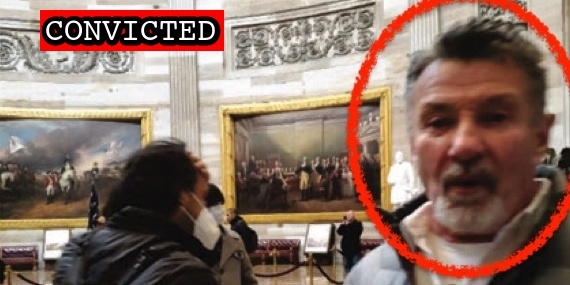
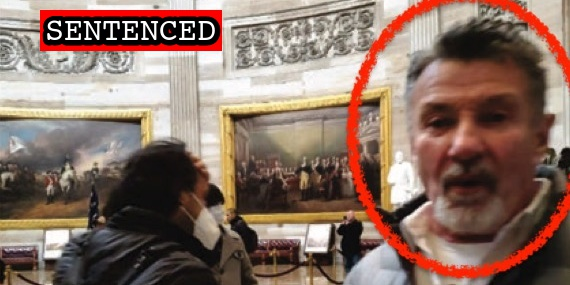
More sentencing

Changed region(s): [[0.1789, 0.0561, 0.3281, 0.1684], [0.0596, 0.0561, 0.1491, 0.1684], [0.3877, 0.0281, 0.4175, 0.1965]]

diff --git a/docs/_suspects/john-schubert.md b/docs/_suspects/john-schubert.md
@@ -4,18 +4,18 @@ lastName: Schubert
 hashtag: JolietGray
 aka:
 residence: Illinois
-status: Convicted
+status: Sentenced
 date: 2021-06-24
 charged: 2021-06-24
 indicted:
 convicted: 2021-12-11
 acquitted:
-sentenced:
+sentenced: 2022-03-08
 dismissed:
 deceased:
 plea_hearing: 2021-12-11
 trial_date:
-sentencing: 2022-03-03
+sentencing: 2022-03-08
 age: 71
 occupation:
 affiliations:
@@ -36,15 +36,21 @@ published: true
 caseNumber: 1:21-mj-495
 videos:
 charges:
-- code: 40 USC § 5104(e)(2)(G)
-  title: Parading, demonstrating or picketing in a Capitol building
-  url: https://www.law.cornell.edu/uscode/text/40/5104
-  felony: false
+  - code: 40 USC § 5104(e)(2)(G)
+    title: Parading, demonstrating or picketing in a Capitol building
+    url: https://www.law.cornell.edu/uscode/text/40/5104
+    felony: false
 sentence:
+  - 18 months probation
+  - 100 hours community service
+  - $1500 fine
+  - $500 restitution
 ---
+
 - [News Report](https://www.msn.com/en-us/news/crime/who-are-amy-and-john-schubert-couple-charged-over-january-6-capitol-riot/ar-AAMCq1m)
 - [Statement of Facts](https://www.justice.gov/usao-dc/case-multi-defendant/file/1417746/download)
 - [Plea Agreement](https://storage.courtlistener.com/recap/gov.uscourts.dcd.235718/gov.uscourts.dcd.235718.15.0_1.pdf)
 - [Information](https://extremism.gwu.edu/sites/g/files/zaxdzs2191/f/John%20Schubert%20Jr%20Information.pdf)
 - [Sentencing Memo](https://extremism.gwu.edu/sites/g/files/zaxdzs2191/f/John%20Schubert%20Jr%20Defense%20Sentencing%20Memorandum.pdf)
 - [Statement of Offense](https://extremism.gwu.edu/sites/g/files/zaxdzs2191/f/John%20Schubert%20Jr%20Statement%20of%20Offense.pdf)
+- [Judgement](https://storage.courtlistener.com/recap/gov.uscourts.dcd.235718/gov.uscourts.dcd.235718.30.0.pdf)

diff --git a/docs/_suspects/jennifer-heinl.md b/docs/_suspects/jennifer-heinl.md
@@ -4,13 +4,13 @@ lastName: Heinl
 hashtag: JenniferHeinl
 aka:
 residence: Pennsylvania
-status: Convicted
+status: Sentenced
 date: 2021-03-17
 charged: 2021-03-17
 indicted:
 convicted: 2021-11-02
 acquitted:
-sentenced:
+sentenced: 2022-06-08
 dismissed:
 deceased:
 plea_hearing: 2021-11-02
@@ -36,12 +36,16 @@ published: true
 caseNumber: 1:21-cr-370
 videos:
 charges:
-- code: 40 USC § 5104(e)(2)(G)
-  title: Parading, demonstrating or picketing in a Capitol building
-  url: https://www.law.cornell.edu/uscode/text/40/5104
-  felony: false
+  - code: 40 USC § 5104(e)(2)(G)
+    title: Parading, demonstrating or picketing in a Capitol building
+    url: https://www.law.cornell.edu/uscode/text/40/5104
+    felony: false
 sentence:
+  - 14 days intermittment confinement
+  - 2 years probation
+  - $500 restitution
 ---
+
 - [News Report](https://www.wpxi.com/news/top-stories/ross-township-woman-arrested-connection-with-violence-us-capitol/5C7LELQGNRFCFIJAB6E4N7AHJA/)
 - [Statement of Facts](https://www.justice.gov/usao-dc/case-multi-defendant/file/1378666/download)
 - [Information](https://extremism.gwu.edu/sites/g/files/zaxdzs2191/f/Jennifer%20Heinl%20Information.pdf)

diff --git a/docs/_suspects/jeffery-finley.md b/docs/_suspects/jeffery-finley.md
@@ -15,7 +15,7 @@ dismissed:
 deceased:
 plea_hearing: 2022-04-06
 trial_date:
-sentencing: 2022-07-19
+sentencing:
 age:
 occupation:
 affiliations: Proud Boys
@@ -36,12 +36,13 @@ published: true
 caseNumber: 1:21-cr-526
 videos:
 charges:
-- code: 18 USC § 1752(a)(1)
-  title: Entering a restricted building or grounds
-  url: https://www.law.cornell.edu/uscode/text/18/1752
-  felony: false
+  - code: 18 USC § 1752(a)(1)
+    title: Entering a restricted building or grounds
+    url: https://www.law.cornell.edu/uscode/text/18/1752
+    felony: false
 sentence:
 ---
+
 - [News Report](https://www.usnews.com/news/best-states/west-virginia/articles/2021-04-06/wva-man-charged-with-entering-us-capitol-during-jan-6-riot)
 - [Complaint](https://www.justice.gov/usao-dc/case-multi-defendant/file/1393631/download)
 - [Statement of Facts](https://www.justice.gov/usao-dc/case-multi-defendant/file/1393871/download)

diff --git a/docs/_suspects/jesus-rivera.md b/docs/_suspects/jesus-rivera.md
@@ -14,8 +14,8 @@ sentenced:
 dismissed:
 deceased:
 plea_hearing:
-trial_date: 2022-06-14
-sentencing: 2022-06-22
+trial_date: 2022-06-15
+sentencing:
 age: 37
 occupation: U.S. Marines (Former)
 affiliations: We the People 1776, Proud Boys
